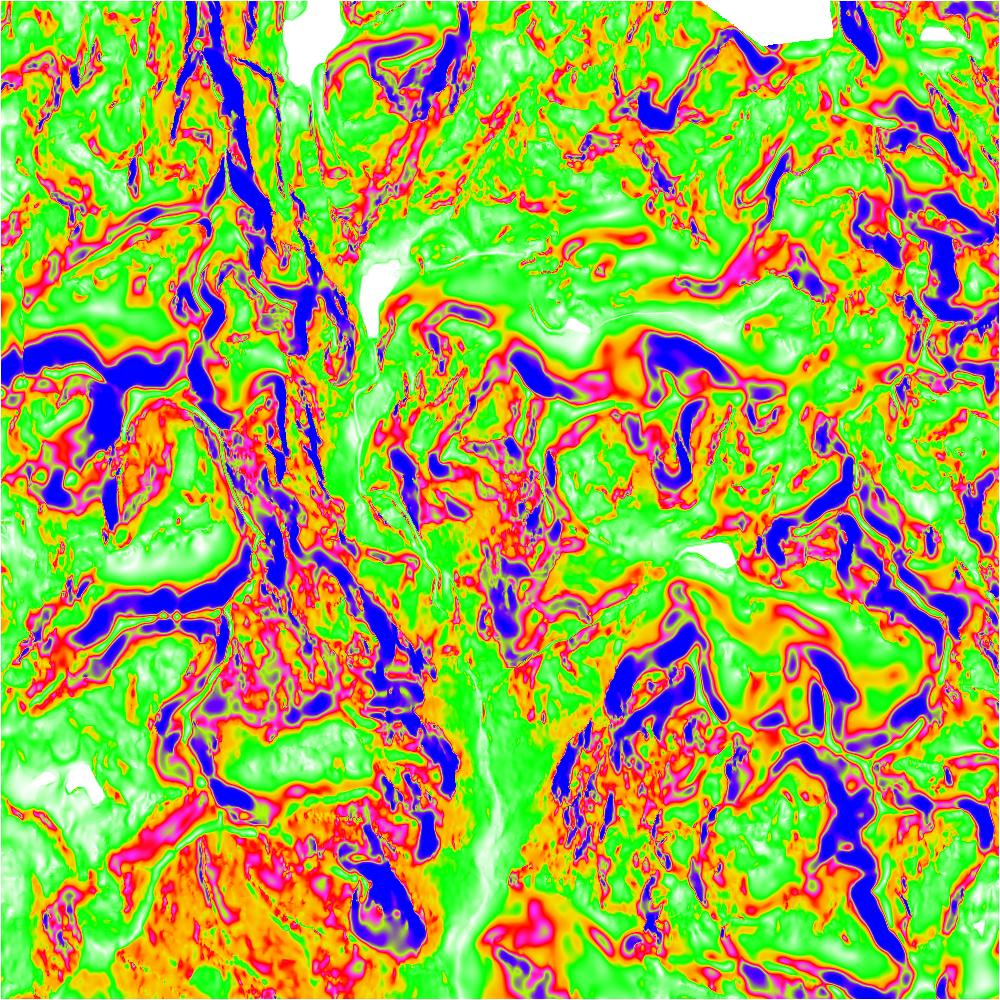
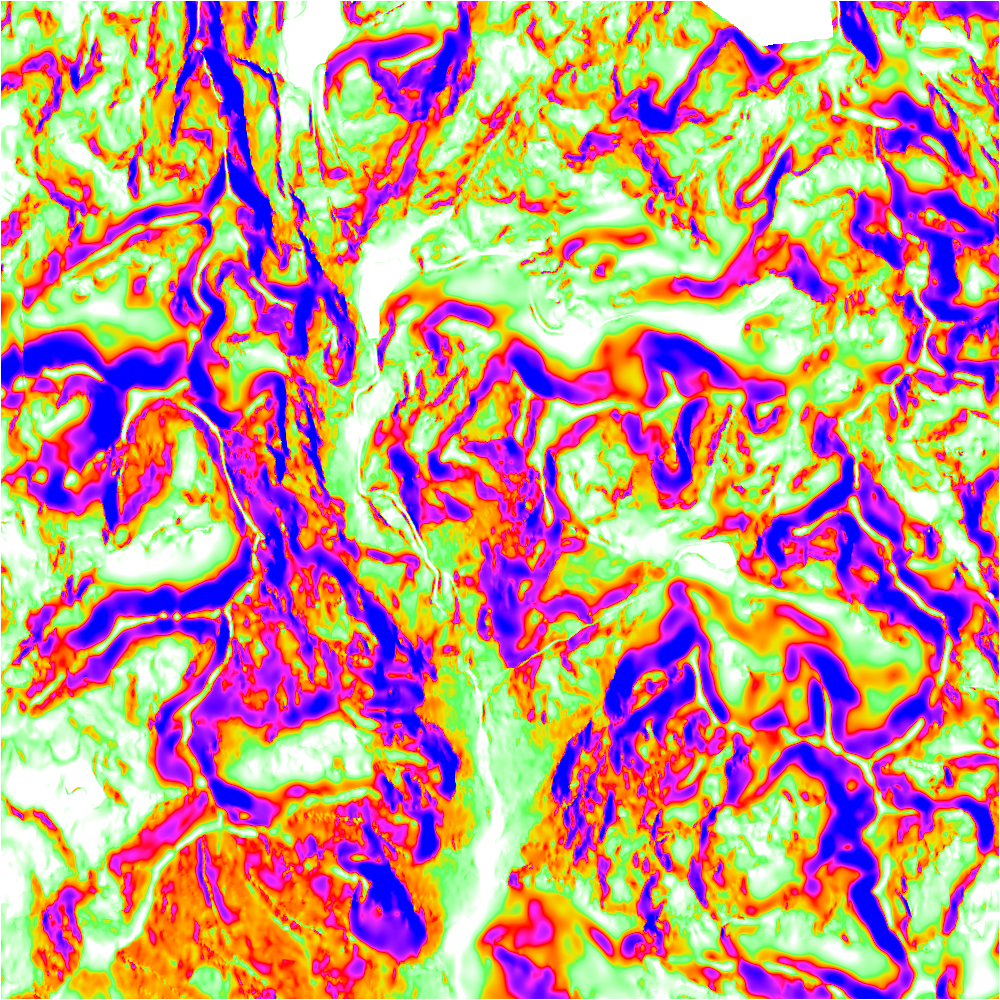
IGN: Fix/improve OSlo colors ; integrations

diff --git a/development/202101-IGN-data-gdaldem.md b/development/202101-IGN-data-gdaldem.md
@@ -146,19 +146,20 @@ Pretty close! IGN has the benefit of using the RGE ALTI 1m, soon to be opened as
 
 We can also use a more precise palette (useful for alpinism/ski-touring), like the one from OpenSlopeMap:
 ```python
-  min   max    R   G   B       HTML
-  0 °  -9 °    0   0   0    #FFFFFF
- 10 ° -29 °    0 255   0    #00FF00
- 30 ° -34 °  240 225   0    #F0E100
- 35 ° -39 °  255 155   0    #FF9B00
- 40 ° -42 °  255   0   0    #FF0000
- 43 ° -45 °  255  38 255    #FF26FF
- 46 ° -49 °  167  25 255    #A719FF
- 50 ° -54 °  110   0 255    #6E00FF
- 55 ° -90 °    0   0 255    #0000FF
+  min   max    R   G   B       HTML  color
+  0 °  -9 °    0   0   0    #FFFFFF  white
+ 10 ° -29 °    0 255   0    #00FF00  green
+ 30 ° -34 °  240 225   0    #F0E100  yellow
+ 35 ° -39 °  255 155   0    #FF9B00  orange
+ 40 ° -42 °  255   0   0    #FF0000  red
+ 43 ° -45 °  255  38 255    #FF26FF  magenta
+ 46 ° -49 °  167  25 255    #A719FF  violet
+ 50 ° -54 °  110   0 255    #6E00FF  purple
+ 55 ° -90 °    0   0 255    #0000FF  blue
 ```
 
-Which I slightly tweaked in [gdaldem-color-slope-oslo.conf](data_geo/gdaldem-color-slope-oslo.conf)
+Which I slightly tweaked in [gdaldem-color-slope-oslo.conf](data_geo/gdaldem-color-slope-oslo.conf) to make it continuous:
+<img src="img/geo/oslo-colormap-gradient.jpg" width="400">
 
 ```bash
 gdaldem color-relief clapier_lamb_slope.tif gdaldem-color-slope-oslo.conf clapier_slopeshade_oslo.tif
@@ -169,7 +170,7 @@ gdaldem color-relief clapier_lamb_slope.tif gdaldem-color-slope-oslo.conf clapie
 
 # Projection conversion
 
-If we want to put our new overlay online, we are going to need to get it to a more standard projection, WGS84. We'll need to tell gdal that what we've been using all this time is Lambert93, a.k.a EPSG:2154 (as pointed out by [GDAL-OGR](https://gdal.gloobe.org/gdal/presentation.html))
+If we want to put our new overlay online, we are going to need to get it to a more standard projection, WGS84 (EPSG:3857). We'll need to tell gdal that what we've been using all this time is Lambert93, a.k.a EPSG:2154 (as pointed out by [GDAL-OGR](https://gdal.gloobe.org/gdal/presentation.html))
 
 It is possible to do this directly on the raw elevation data (and translate it at the same time to GeoTiff), with:
 
@@ -188,3 +189,16 @@ gdaldem color-relief clapier_wgs_slope.tif gdaldem-color-slope-oslo.conf clapier
 Our overlay is now web-ready... or not, because of all missing data near corners.
 
 <img src="img/geo/clapier_slopeshade_wgs_oslo.jpg" width="400">
+
+
+# Possible integrations
+
+This maps could benefit from the more precise contour lines/relief:
+
+* [OpenSlopeMap](https://www.openslopemap.org/projekt/hintergrundinformationen/)
+* OpenAndroMaps [Elevate](https://www.openandromaps.org/en/legend/elevate-mountain-hike-theme) based on [MapsForge](https://wiki.openstreetmap.org/wiki/Mapsforge)
+* OpenTopoMap (on [github](https://github.com/der-stefan/OpenTopoMap/tree/master/mapnik)) [2]
+* OpenHikingMap / [maps.refuges.info](https://wiki.openstreetmap.org/wiki/Hiking/mri)
+* [MapTiler Topo](https://www.maptiler.com/maps/#topo) (based on OpenTilesMap but Topo is private)
+
+It could also directly be used as an [OruxMaps DEM file](https://www.oruxmaps.com/cs/en/blog/25-dem-files)
